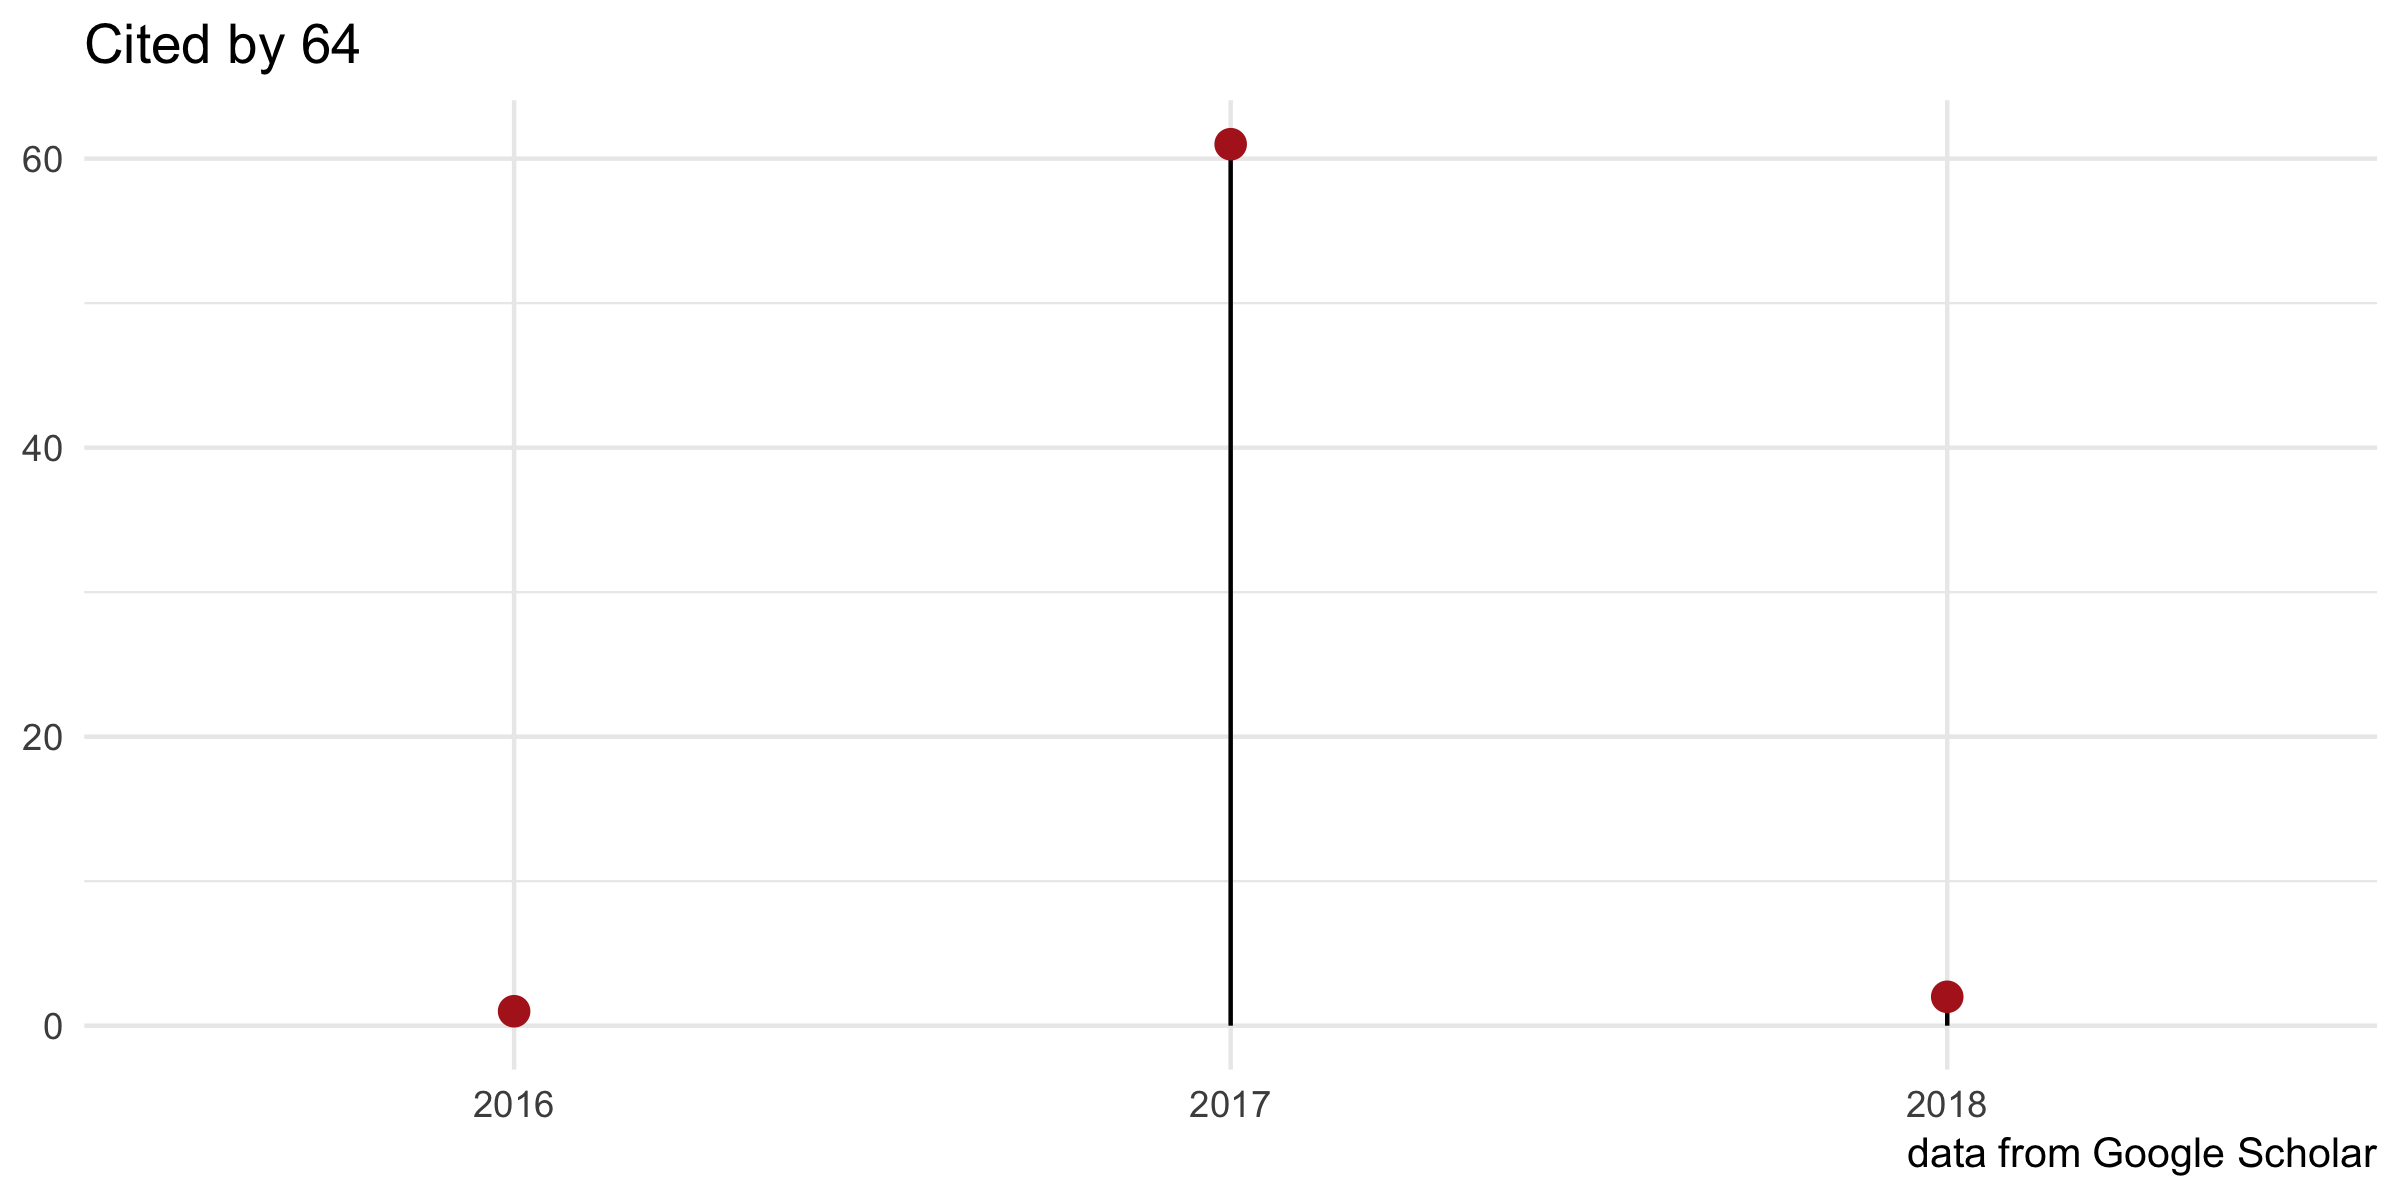
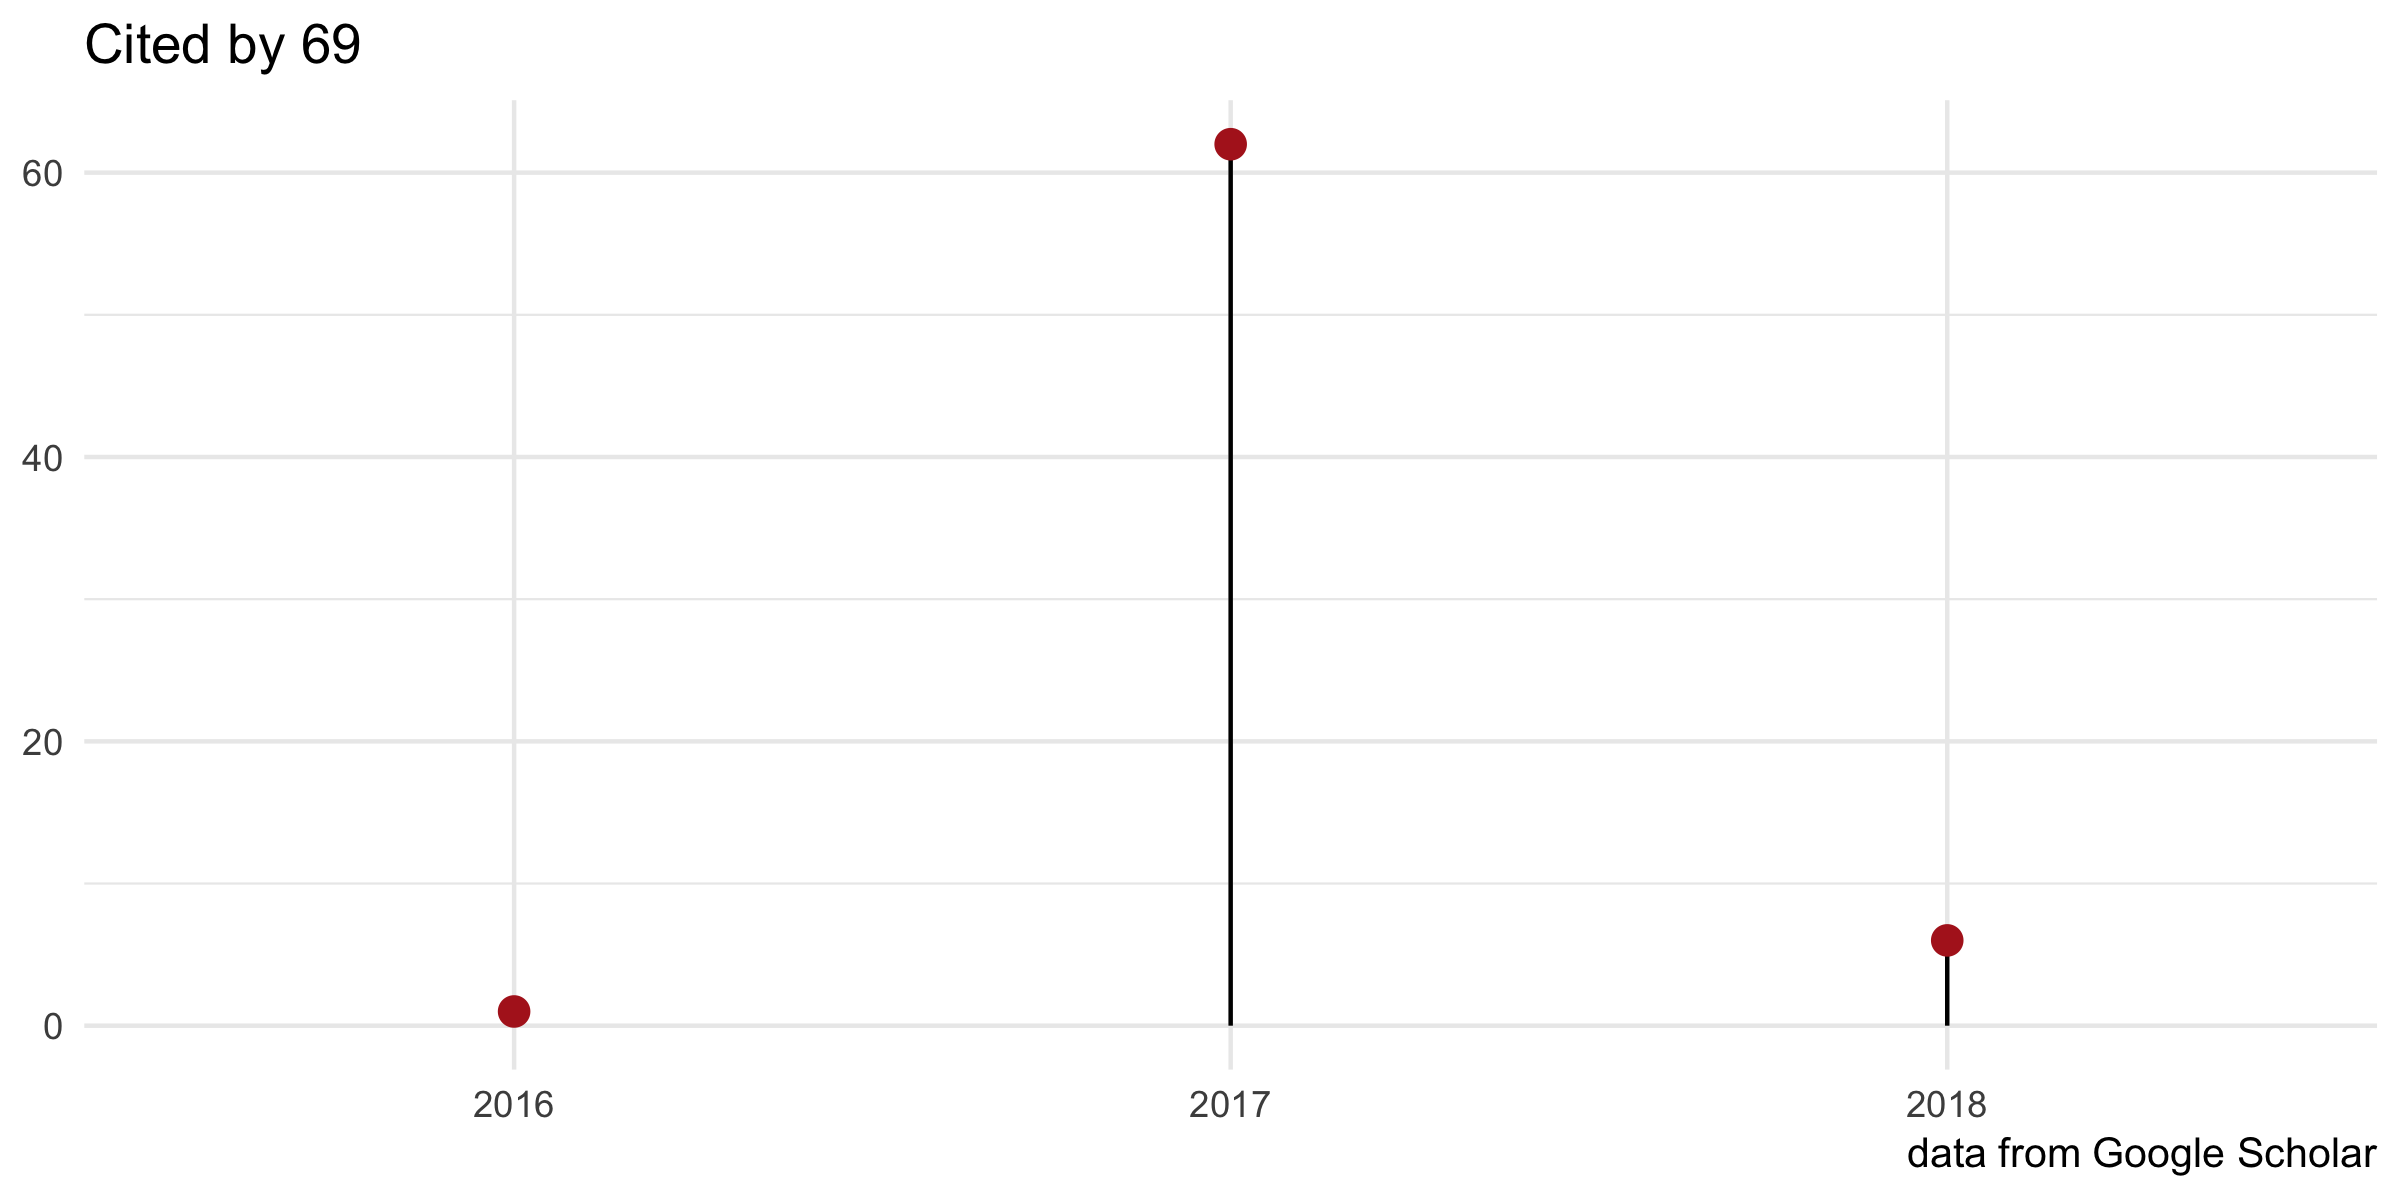
new citation

diff --git a/site_src/content/index.html b/site_src/content/index.html
@@ -9,7 +9,7 @@ weight: 1
 
 <p><link rel="stylesheet" href="https://guangchuangyu.github.io/css/font-awesome.min.css"> <link rel="stylesheet" href="https://guangchuangyu.github.io/css/academicons.min.css"></p>
 <p><img src="https://raw.githubusercontent.com/Bioconductor/BiocStickers/master/ggtree/ggtree.png" height="200" align="right" /></p>
-<p><a href="https://bioconductor.org/packages/ggtree"><img src="https://img.shields.io/badge/release%20version-1.10.0-blue.svg?style=flat" alt="releaseVersion" /></a> <a href="https://github.com/guangchuangyu/ggtree"><img src="https://img.shields.io/badge/devel%20version-1.11.4-blue.svg?style=flat" alt="develVersion" /></a> <a href="https://bioconductor.org/packages/stats/bioc/ggtree"><img src="https://img.shields.io/badge/downloads-22863/total-blue.svg?style=flat" alt="total" /></a> <a href="https://bioconductor.org/packages/stats/bioc/ggtree"><img src="https://img.shields.io/badge/downloads-906/month-blue.svg?style=flat" alt="month" /></a></p>
+<p><a href="https://bioconductor.org/packages/ggtree"><img src="https://img.shields.io/badge/release%20version-1.10.2-blue.svg?style=flat" alt="releaseVersion" /></a> <a href="https://github.com/guangchuangyu/ggtree"><img src="https://img.shields.io/badge/devel%20version-1.11.4-blue.svg?style=flat" alt="develVersion" /></a> <a href="https://bioconductor.org/packages/stats/bioc/ggtree"><img src="https://img.shields.io/badge/downloads-23270/total-blue.svg?style=flat" alt="total" /></a> <a href="https://bioconductor.org/packages/stats/bioc/ggtree"><img src="https://img.shields.io/badge/downloads-906/month-blue.svg?style=flat" alt="month" /></a></p>
 <p>The <code>ggtree</code> package extending the <em>ggplot2</em> package. It based on grammar of graphics and takes all the good parts of <em>ggplot2</em>. <em>ggtree</em> is designed for not only viewing phylogenetic tree but also displaying annotation data on the tree. <em>ggtree</em> is released within the <a href="https://bioconductor.org/packages/ggtree/">Bioconductor</a> project and the source code is hosted on <a href="https://github.com/GuangchuangYu/ggtree"><i class="fa fa-github fa-lg"></i> GitHub</a>.</p>
 <div id="authors" class="section level2">
 <h2><i class="fa fa-user"></i> Authors</h2>
@@ -18,7 +18,7 @@ weight: 1
 <div id="citation" class="section level2">
 <h2><i class="fa fa-book"></i> Citation</h2>
 <p>Please cite the following article when using <code>ggtree</code>:</p>
-<p><a href="http://dx.doi.org/10.1111/2041-210X.12628"><img src="https://img.shields.io/badge/doi-10.1111/2041--210X.12628-blue.svg?style=flat" alt="doi" /></a> <a href="https://www.altmetric.com/details/10533079"><img src="https://img.shields.io/badge/Altmetric-325-blue.svg?style=flat" alt="Altmetric" /></a> <a href="https://scholar.google.com.hk/scholar?oi=bibs&amp;hl=en&amp;cites=7268358477862164627"><img src="https://img.shields.io/badge/cited%20by-64-blue.svg?style=flat" alt="citation" /></a></p>
+<p><a href="http://dx.doi.org/10.1111/2041-210X.12628"><img src="https://img.shields.io/badge/doi-10.1111/2041--210X.12628-blue.svg?style=flat" alt="doi" /></a> <a href="https://www.altmetric.com/details/10533079"><img src="https://img.shields.io/badge/Altmetric-327-blue.svg?style=flat" alt="Altmetric" /></a> <a href="https://scholar.google.com.hk/scholar?oi=bibs&amp;hl=en&amp;cites=7268358477862164627"><img src="https://img.shields.io/badge/cited%20by-69-blue.svg?style=flat" alt="citation" /></a></p>
 <p><strong>G Yu</strong>, DK Smith, H Zhu, Y Guan, TTY Lam<sup>*</sup>. ggtree: an R package for visualization and annotation of phylogenetic trees with their covariates and other associated data. <strong><em>Methods in Ecology and Evolution</em></strong>. 2017, 8(1):28-36.</p>
 </div>
 <div id="featured-articles" class="section level2">

diff --git a/docs/index.html b/docs/index.html
@@ -346,7 +346,7 @@
 
 				<p><link rel="stylesheet" href="https://guangchuangyu.github.io/css/font-awesome.min.css"> <link rel="stylesheet" href="https://guangchuangyu.github.io/css/academicons.min.css"></p>
 <p><img src="https://raw.githubusercontent.com/Bioconductor/BiocStickers/master/ggtree/ggtree.png" height="200" align="right" /></p>
-<p><a href="https://bioconductor.org/packages/ggtree"><img src="https://img.shields.io/badge/release%20version-1.10.0-blue.svg?style=flat" alt="releaseVersion" /></a> <a href="https://github.com/guangchuangyu/ggtree"><img src="https://img.shields.io/badge/devel%20version-1.11.4-blue.svg?style=flat" alt="develVersion" /></a> <a href="https://bioconductor.org/packages/stats/bioc/ggtree"><img src="https://img.shields.io/badge/downloads-22863/total-blue.svg?style=flat" alt="total" /></a> <a href="https://bioconductor.org/packages/stats/bioc/ggtree"><img src="https://img.shields.io/badge/downloads-906/month-blue.svg?style=flat" alt="month" /></a></p>
+<p><a href="https://bioconductor.org/packages/ggtree"><img src="https://img.shields.io/badge/release%20version-1.10.2-blue.svg?style=flat" alt="releaseVersion" /></a> <a href="https://github.com/guangchuangyu/ggtree"><img src="https://img.shields.io/badge/devel%20version-1.11.4-blue.svg?style=flat" alt="develVersion" /></a> <a href="https://bioconductor.org/packages/stats/bioc/ggtree"><img src="https://img.shields.io/badge/downloads-23270/total-blue.svg?style=flat" alt="total" /></a> <a href="https://bioconductor.org/packages/stats/bioc/ggtree"><img src="https://img.shields.io/badge/downloads-906/month-blue.svg?style=flat" alt="month" /></a></p>
 <p>The <code>ggtree</code> package extending the <em>ggplot2</em> package. It based on grammar of graphics and takes all the good parts of <em>ggplot2</em>. <em>ggtree</em> is designed for not only viewing phylogenetic tree but also displaying annotation data on the tree. <em>ggtree</em> is released within the <a href="https://bioconductor.org/packages/ggtree/">Bioconductor</a> project and the source code is hosted on <a href="https://github.com/GuangchuangYu/ggtree"><i class="fa fa-github fa-lg"></i> GitHub</a>.</p>
 <div id="authors" class="section level2">
 <h2><i class="fa fa-user"></i> Authors</h2>
@@ -355,7 +355,7 @@
 <div id="citation" class="section level2">
 <h2><i class="fa fa-book"></i> Citation</h2>
 <p>Please cite the following article when using <code>ggtree</code>:</p>
-<p><a href="http://dx.doi.org/10.1111/2041-210X.12628"><img src="https://img.shields.io/badge/doi-10.1111/2041--210X.12628-blue.svg?style=flat" alt="doi" /></a> <a href="https://www.altmetric.com/details/10533079"><img src="https://img.shields.io/badge/Altmetric-325-blue.svg?style=flat" alt="Altmetric" /></a> <a href="https://scholar.google.com.hk/scholar?oi=bibs&amp;hl=en&amp;cites=7268358477862164627"><img src="https://img.shields.io/badge/cited%20by-64-blue.svg?style=flat" alt="citation" /></a></p>
+<p><a href="http://dx.doi.org/10.1111/2041-210X.12628"><img src="https://img.shields.io/badge/doi-10.1111/2041--210X.12628-blue.svg?style=flat" alt="doi" /></a> <a href="https://www.altmetric.com/details/10533079"><img src="https://img.shields.io/badge/Altmetric-327-blue.svg?style=flat" alt="Altmetric" /></a> <a href="https://scholar.google.com.hk/scholar?oi=bibs&amp;hl=en&amp;cites=7268358477862164627"><img src="https://img.shields.io/badge/cited%20by-69-blue.svg?style=flat" alt="citation" /></a></p>
 <p><strong>G Yu</strong>, DK Smith, H Zhu, Y Guan, TTY Lam<sup>*</sup>. ggtree: an R package for visualization and annotation of phylogenetic trees with their covariates and other associated data. <strong><em>Methods in Ecology and Evolution</em></strong>. 2017, 8(1):28-36.</p>
 </div>
 <div id="featured-articles" class="section level2">

diff --git a/site_src/content/gallery/index.html b/site_src/content/gallery/index.html
@@ -8,6 +8,12 @@ weight: 40
 
 <p><link rel="stylesheet" href="https://guangchuangyu.github.io/css/font-awesome.min.css"></p>
 <div class="figure">
+<img src="https://guangchuangyu.github.io/featured_img/ggtree/sc-2017-037952_0008.jpeg" />
+
+</div>
+<p><a href="https://doi.org/10.1021/acssuschemeng.7b03795" class="uri">https://doi.org/10.1021/acssuschemeng.7b03795</a></p>
+<hr />
+<div class="figure">
 <img src="https://guangchuangyu.github.io/featured_img/ggtree/2017_science.jpg" />
 
 </div>

diff --git a/docs/gallery/index.html b/docs/gallery/index.html
@@ -345,6 +345,12 @@
 
 			<p><link rel="stylesheet" href="https://guangchuangyu.github.io/css/font-awesome.min.css"></p>
 <div class="figure">
+<img src="https://guangchuangyu.github.io/featured_img/ggtree/sc-2017-037952_0008.jpeg" />
+
+</div>
+<p><a href="https://doi.org/10.1021/acssuschemeng.7b03795" class="uri">https://doi.org/10.1021/acssuschemeng.7b03795</a></p>
+<hr />
+<div class="figure">
 <img src="https://guangchuangyu.github.io/featured_img/ggtree/2017_science.jpg" />
 
 </div>

diff --git a/README.md b/README.md
@@ -6,7 +6,7 @@ ggtree: an R package for visualization and annotation of phylogenetic trees with
 
 [![releaseVersion](https://img.shields.io/badge/release%20version-1.10.2-green.svg?style=flat)](https://bioconductor.org/packages/ggtree) [![develVersion](https://img.shields.io/badge/devel%20version-1.11.4-green.svg?style=flat)](https://github.com/guangchuangyu/ggtree) [![Bioc](http://www.bioconductor.org/shields/years-in-bioc/ggtree.svg)](https://www.bioconductor.org/packages/devel/bioc/html/ggtree.html#since) [![Awesome](https://cdn.rawgit.com/sindresorhus/awesome/d7305f38d29fed78fa85652e3a63e154dd8e8829/media/badge.svg)](https://awesome-r.com/#awesome-r-graphic-displays) [![Say Thanks!](https://img.shields.io/badge/Say%20Thanks-!-1EAEDB.svg)](https://saythanks.io/to/GuangchuangYu)
 
-[![platform](http://www.bioconductor.org/shields/availability/devel/ggtree.svg)](https://www.bioconductor.org/packages/devel/bioc/html/ggtree.html#archives) [![Project Status: Active - The project has reached a stable, usable state and is being actively developed.](http://www.repostatus.org/badges/latest/active.svg)](http://www.repostatus.org/#active) [![codecov](https://codecov.io/gh/GuangchuangYu/ggtree/branch/master/graph/badge.svg)](https://codecov.io/gh/GuangchuangYu/ggtree) [![Last-changedate](https://img.shields.io/badge/last%20change-2018--01--08-green.svg)](https://github.com/GuangchuangYu/ggtree/commits/master) [![GitHub forks](https://img.shields.io/github/forks/GuangchuangYu/ggtree.svg)](https://github.com/GuangchuangYu/ggtree/network) [![GitHub stars](https://img.shields.io/github/stars/GuangchuangYu/ggtree.svg)](https://github.com/GuangchuangYu/ggtree/stargazers)
+[![platform](http://www.bioconductor.org/shields/availability/devel/ggtree.svg)](https://www.bioconductor.org/packages/devel/bioc/html/ggtree.html#archives) [![Project Status: Active - The project has reached a stable, usable state and is being actively developed.](http://www.repostatus.org/badges/latest/active.svg)](http://www.repostatus.org/#active) [![codecov](https://codecov.io/gh/GuangchuangYu/ggtree/branch/master/graph/badge.svg)](https://codecov.io/gh/GuangchuangYu/ggtree) [![Last-changedate](https://img.shields.io/badge/last%20change-2018--01--16-green.svg)](https://github.com/GuangchuangYu/ggtree/commits/master) [![GitHub forks](https://img.shields.io/github/forks/GuangchuangYu/ggtree.svg)](https://github.com/GuangchuangYu/ggtree/network) [![GitHub stars](https://img.shields.io/github/stars/GuangchuangYu/ggtree.svg)](https://github.com/GuangchuangYu/ggtree/stargazers)
 
 The `ggtree` package extending the `ggplot2` package. It based on grammar of graphics and takes all the good parts of `ggplot2`. `ggtree` is designed for not only viewing phylogenetic tree but also displaying annotation data on the tree.
 
@@ -25,7 +25,7 @@ Please cite the following article when using `ggtree`:
 
 **G Yu**, DK Smith, H Zhu, Y Guan, TTY Lam<sup>\*</sup>. ggtree: an R package for visualization and annotation of phylogenetic trees with their covariates and other associated data. ***Methods in Ecology and Evolution***. 2017, 8(1):28-36.
 
-[![doi](https://img.shields.io/badge/doi-10.1111/2041--210X.12628-green.svg?style=flat)](http://dx.doi.org/10.1111/2041-210X.12628) [![Altmetric](https://img.shields.io/badge/Altmetric-322-green.svg?style=flat)](https://www.altmetric.com/details/10533079) [![citation](https://img.shields.io/badge/cited%20by-64-green.svg?style=flat)](https://scholar.google.com.hk/scholar?oi=bibs&hl=en&cites=7268358477862164627)
+[![doi](https://img.shields.io/badge/doi-10.1111/2041--210X.12628-green.svg?style=flat)](http://dx.doi.org/10.1111/2041-210X.12628) [![Altmetric](https://img.shields.io/badge/Altmetric-327-green.svg?style=flat)](https://www.altmetric.com/details/10533079) [![citation](https://img.shields.io/badge/cited%20by-69-green.svg?style=flat)](https://scholar.google.com.hk/scholar?oi=bibs&hl=en&cites=7268358477862164627)
 
 ------------------------------------------------------------------------
 
@@ -35,6 +35,6 @@ Please cite the following article when using `ggtree`:
 
 ### Download stats
 
-[![download](http://www.bioconductor.org/shields/downloads/ggtree.svg)](https://bioconductor.org/packages/stats/bioc/ggtree) [![total](https://img.shields.io/badge/downloads-22957/total-blue.svg?style=flat)](https://bioconductor.org/packages/stats/bioc/ggtree) [![month](https://img.shields.io/badge/downloads-906/month-blue.svg?style=flat)](https://bioconductor.org/packages/stats/bioc/ggtree)
+[![download](http://www.bioconductor.org/shields/downloads/ggtree.svg)](https://bioconductor.org/packages/stats/bioc/ggtree) [![total](https://img.shields.io/badge/downloads-23270/total-blue.svg?style=flat)](https://bioconductor.org/packages/stats/bioc/ggtree) [![month](https://img.shields.io/badge/downloads-906/month-blue.svg?style=flat)](https://bioconductor.org/packages/stats/bioc/ggtree)
 
 <img src="docs/images/dlstats.png" width="890"/>
